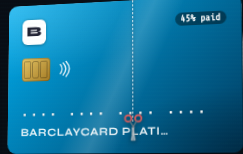
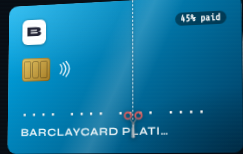
Test screenshots refreshed

Changed region(s): [[0.4897, 0.2857, 0.6049, 0.8312], [0.5185, 0.8831, 0.5761, 0.9351]]

diff --git a/tests/test_roadmap.js b/tests/test_roadmap.js
@@ -17,7 +17,7 @@ const seed = (o) => `(function(){if(localStorage.getItem('ht3'))return;localStor
   await p.evaluate(() => showTab('overview')); await p.waitForTimeout(900);
   // reset everything the roadmap reads, as a post-migration user
   const reset = () => p.evaluate(() => {
-    ovState.snapshots = []; ovState.manual = { _v2: 1 }; ovState.skipped = {}; ovState.income = []; ovState.expenses = [];
+    ovState.snapshots = []; ovState.manual = {}; ovState.skipped = {}; ovState.income = []; ovState.expenses = [];
     debtState.debts = []; alState.liabilities = []; alState.cashAccounts = []; alState.stockPies = [];
     try { localStorage.removeItem('vi_nw_history'); } catch (e) {}
     state.saved = 0; state.target = 250000; state.houseMode = null; state.deposits = [];
@@ -32,7 +32,7 @@ const seed = (o) => `(function(){if(localStorage.getItem('ht3'))return;localStor
 
   // ── 2. the reported case: debts mapped, other things met, but stage 1 (no snapshot) holds everything back
   await p.evaluate(() => {
-    debtState.debts = [{ id: 1, name: 'Barclaycard', original: 2000, balance: 1500, rate: 21, min: 50, type: 'credit' }, { id: 2, name: 'Car', original: 6000, balance: 5000, rate: 7, min: 150, type: 'car' }];
+    debtState.debts = [{ id: Date.now(), name: 'Barclaycard', original: 2000, balance: 1500, rate: 21, min: 50, type: 'credit' }, { id: Date.now() + 1, name: 'Car', original: 6000, balance: 5000, rate: 7, min: 150, type: 'car' }];
     alState.cashAccounts = [{ id: 1, name: 'Savings', type: 'Savings', balance: 1200 }];
     renderFIREroadmap();
   });
@@ -88,13 +88,13 @@ const seed = (o) => `(function(){if(localStorage.getItem('ht3'))return;localStor
 
   // ── 7. only a student loan + mortgage: no consumer debt to cut, so those stages do not block forever
   await reset();
-  await p.evaluate(() => { debtState.debts = [{ id: 1, name: 'Student Loan', original: 38000, balance: 36000, rate: 6, min: 0, type: 'student' }, { id: 2, name: 'Mortgage', original: 200000, balance: 190000, rate: 4, min: 900, type: 'mortgage' }]; ovState.manual.debtsMapped = true; fireLogSnapshot(); });
+  await p.evaluate(() => { debtState.debts = [{ id: Date.now(), name: 'Student Loan', original: 38000, balance: 36000, rate: 6, min: 0, type: 'student' }, { id: Date.now() + 1, name: 'Mortgage', original: 200000, balance: 190000, rate: 4, min: 900, type: 'mortgage' }]; ovState.manual.debtsMapped = true; fireLogSnapshot(); });
   r = await S();
   ok(r.doneKeys.includes('mapDebts') && r.raw.includes('firstCut') && r.raw.includes('debtHalf') && r.raw.includes('debtFree'), 'student loan + mortgage only: First Debt Cut / Halved / Debt Free are not blocked by them');
 
   // ── 8. a debt with no “original” amount is stamped, so progress can be shown
   await reset();
-  await p.evaluate(() => { debtState.debts = [{ id: 1, name: 'Old card', balance: 1000, rate: 20, min: 30, type: 'credit' }]; ovState.manual.debtsMapped = true; fireLogSnapshot(); });
+  await p.evaluate(() => { debtState.debts = [{ id: Date.now(), name: 'Old card', balance: 1000, rate: 20, min: 30, type: 'credit' }]; ovState.manual.debtsMapped = true; fireLogSnapshot(); });
   await p.waitForTimeout(200);
   ok(await p.evaluate(() => debtState.debts[0].original) === 1000, 'a legacy debt without an original amount is stamped with its balance');
   await p.evaluate(() => { debtState.debts[0].balance = 400; renderFIREroadmap(); }); r = await S();
@@ -116,12 +116,16 @@ const seed = (o) => `(function(){if(localStorage.getItem('ht3'))return;localStor
   await p.evaluate(() => { alState.stockPies = [{ id: 1, name: 'Stocks & Shares ISA' }]; renderFIREroadmap(); });
   ok((await S()).raw.includes('isa'), 'an ISA-named Stocks & Funds pie counts');
 
-  // ── 12. migration: a user who already had debts before the tick existed keeps Map Debts
-  await p.evaluate(() => { ovState.manual = {}; debtState.debts = [{ id: 1, name: 'Loan', original: 3000, balance: 2000, rate: 8, min: 90, type: 'personal' }]; renderFIREroadmap(); });
-  ok(await p.evaluate(() => ovState.manual.debtsMapped === true && ovState.manual._v2 === 1), 'existing users with debts are grandfathered (no re-lock)');
+  // ── 12. grandfathering: a debt created before the tick existed counts as confirmed; a new one doesn't; nothing is written
+  await reset();
+  await p.evaluate(() => { debtState.debts = [{ id: 1700000000000, name: 'Loan', original: 3000, balance: 2000, rate: 8, min: 90, type: 'personal' }]; renderFIREroadmap(); });
+  ok(await p.evaluate(() => renderFIREroadmap._stages.find(s => s.key === 'mapDebts').raw === true), 'a debt listed before the tick existed keeps Map Debts complete (no re-lock for existing users)');
+  ok(await p.evaluate(() => ovState.manual.debtsMapped === undefined && !JSON.stringify(ovState.manual).includes('_v2')), 'and the grandfathering writes nothing');
+  await p.evaluate(() => { debtState.debts = [{ id: Date.now(), name: 'New loan', original: 3000, balance: 2000, rate: 8, min: 90, type: 'personal' }]; renderFIREroadmap(); });
+  ok(await p.evaluate(() => renderFIREroadmap._stages.find(s => s.key === 'mapDebts').raw === false), 'a debt added now still needs the tick');
 
   // ── 13. the Debt Tracker has the same tick
-  await reset(); await p.evaluate(() => { debtState.debts = [{ id: 1, name: 'Loan', original: 3000, balance: 2000, rate: 8, min: 90, type: 'personal' }]; fireLogSnapshot(); showTab('debt'); });
+  await reset(); await p.evaluate(() => { debtState.debts = [{ id: Date.now(), name: 'Loan', original: 3000, balance: 2000, rate: 8, min: 90, type: 'personal' }]; fireLogSnapshot(); showTab('debt'); });
   await p.waitForTimeout(400);
   ok(await p.evaluate(() => !!document.querySelector('#debt-map-confirm input[type=checkbox]') && /added every debt/i.test(document.getElementById('debt-map-confirm').innerText)), 'Debt Tracker shows “I’ve added every debt I owe”');
   await p.evaluate(() => document.querySelector('#debt-map-confirm input').click()); await p.waitForTimeout(200);

diff --git a/index.html b/index.html
@@ -19512,7 +19512,7 @@ function undoPayment(id){
 function renderDebtMapConfirm(){
   var el=document.getElementById('debt-map-confirm');if(!el)return;
   var n=(debtState.debts||[]).length,libs=(alState.liabilities||[]).length,k=(n>0||libs>0)?'debtsMapped':'noDebt';
-  var on=fireMan(k);
+  var on=k==='debtsMapped'?fireDebtsConfirmed():fireMan(k);
   el.innerHTML='<label class="map-tick"><input type="checkbox" '+(on?'checked ':'')+'onchange="fireTick(\''+k+'\',this.checked)"><span><b>'+(k==='debtsMapped'?'I’ve added every debt I owe':'I don’t have any debts')+'</b>'
     +'<small>'+(on?'Confirmed — your Roadmap’s “Map Debts” stage is complete.':'Tick when '+(k==='debtsMapped'?'this list is complete':'you owe nothing on cards, loans, car finance or overdrafts')+'. This is what completes “Map Debts” on your Roadmap.')+'</small></span></label>';
 }
@@ -21324,16 +21324,15 @@ function fireMan(k){return !!(ovState.manual&&ovState.manual[k]);}
 function fireSkipped(k){return !!(ovState.skipped&&ovState.skipped[k]);}
 function fireIsConsumerDebt(d){return !!d&&d.type!=='mortgage'&&d.type!=='student';}   // “Debt Free” = no consumer debt (cards, loans, car finance…)
 function fireNwhPoints(){try{var d=nwhLoad();return d&&d.points?d.points.length:0;}catch(e){return 0;}}
-// one-off: people who listed debts before the “I’ve mapped every debt” tick existed keep that stage
-function fireMigrate(){
-  if(!ovState.manual)ovState.manual={};
-  if(ovState.manual._v2)return;
-  ovState.manual._v2=1;
-  if((debtState.debts||[]).length&&ovState.manual.debtsMapped===undefined)ovState.manual.debtsMapped=true;
-  try{localStorage.setItem(OV_KEY,JSON.stringify(ovState));}catch(e){}
+// People who listed debts before the “I’ve mapped every debt” tick existed keep that stage: a debt created before this date
+// (its id is its creation time) counts as confirmed until the user ticks/unticks it themselves. Read-only: nothing is written.
+var FIRE_TICK_SINCE=1792627200000;   // 2026-10-22 00:00 UTC
+function fireDebtsConfirmed(){
+  var v=ovState.manual&&ovState.manual.debtsMapped;
+  if(v!==undefined)return !!v;
+  return (debtState.debts||[]).some(function(d){return +d.id>0&&+d.id<FIRE_TICK_SINCE;});
 }
 function fireBuildStages(){
-  fireMigrate();
   var nw=computeNetWorth();
   var _vu={};try{_vu=JSON.parse(localStorage.getItem('vi_user')||'{}')||{};}catch(e){}
   var annualExp=cfTotalOut()*12||((+_vu.expenses||0)*12)||24000;
@@ -21347,7 +21346,7 @@ function fireBuildStages(){
   var cOrig=consumer.reduce(function(s,d){return s+(d.original||d.balance||0);},0);
   var libs=(alState.liabilities||[]).length;
   var noDebt=debts.length===0&&fireMan('noDebt');
-  var mapped=(debts.length>0||libs>0)&&fireMan('debtsMapped');
+  var mapped=(debts.length>0||libs>0)&&fireDebtsConfirmed();
   var debtsDone=noDebt||mapped;
   var nothingToCut=debtsDone&&consumer.length===0;            // only a mortgage / student loan: there is no consumer debt to cut
   var cleared=cOrig>0?Math.max(0,Math.min(1,1-cTotal/cOrig)):((nothingToCut||noDebt)?1:0);
@@ -21695,7 +21694,7 @@ function fireShowDetail(idx,opts){
     }
   }
   var ticks=(s.confirms||[]).map(function(c){
-    var on=fireMan(c.k);
+    var on=c.k==='debtsMapped'?fireDebtsConfirmed():fireMan(c.k);
     return '<label class="fd-tick"><input type="checkbox" '+(on?'checked ':'')+'onchange="fireTick(\''+c.k+'\',this.checked)"><span>'+c.lbl+(c.sub?'<small>'+c.sub+'</small>':'')+'</span></label>';
   }).join('');
   var acts=(!s.done&&s.acts?s.acts:[]).map(function(a){return '<button type="button" class="fd-btn" onclick="'+a.fn+'">'+a.lbl+'</button>';}).join('');

diff --git a/tests/test_hb3d_app.js b/tests/test_hb3d_app.js
@@ -32,7 +32,7 @@ const seed=(o)=>`(function(){if(localStorage.getItem('ht3'))return;localStorage.
   await p.waitForFunction(()=>!HB3D.viewer._fly,null,{timeout:5000}).catch(()=>{});
   for(const sv of [500,5000,12500,25000,37500,50000,70000]){
     await p.evaluate(v=>{state.saved=v;state.deposits=[{amount:v,date:'01/10/2026'}];save();updateUI();},sv);
-    await p.waitForFunction(()=>hb3dState().settled,null,{timeout:20000}).catch(()=>{});
+    await p.waitForFunction(()=>Math.abs(HB3D.viewer.p-Math.min(1,state.saved/depositTarget()))<1e-6&&!HB3D.viewer._anim,null,{timeout:30000}).catch(()=>{});
     await p.waitForTimeout(250);
     const o=await p.evaluate(()=>({p:HB3D.viewer.p,want:Math.min(1,state.saved/depositTarget()),ri:HB3D.viewer.rowInfo(),y:HB3D.viewer.rowBand&&HB3D.viewer.rowBand.position.y,r:HB3D.viewer.model.rows}));
     ok(Math.abs(o.p-o.want)<1e-6,'build % equals deposit %: £'+sv+' of £50,000 → '+(o.p*100).toFixed(2)+'% (want '+(o.want*100).toFixed(2)+'%)');
